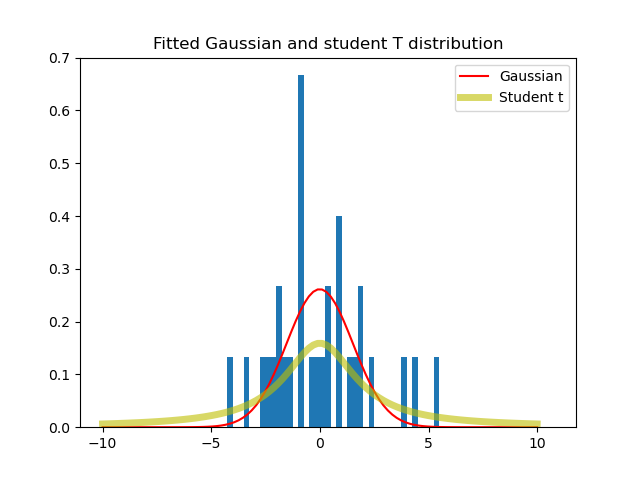
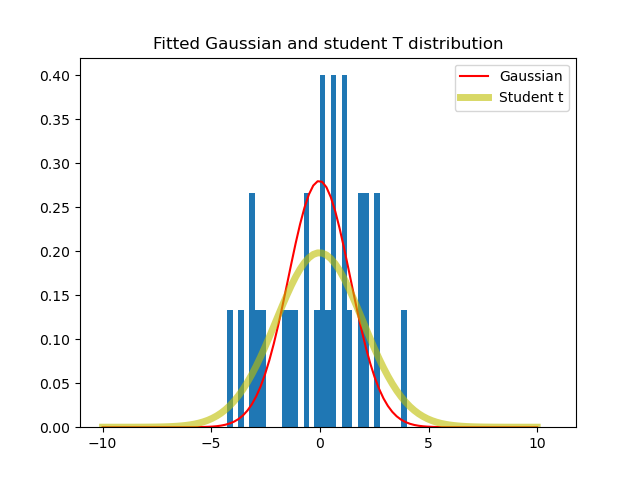
finished

diff --git a/hw1/practice_problem_3.py b/hw1/practice_problem_3.py
@@ -29,7 +29,7 @@ def plot_distributions_and_data(data, noise):
     params_init = np.array([mu_init, sigma_init])
 
     # Minimize negative log-likelihood using L-BFGS
-    result = minimize(Gaussian_neg_log_likelihood, params_init, args=(data,), method='L-BFGS-B')
+    result = minimize(Gaussian_neg_log_likelihood, params_init, args=(data,), method='BFGS')
 
     mu_est, sigma_est = result.x
 
@@ -45,7 +45,7 @@ def plot_distributions_and_data(data, noise):
     params0 = [1, 0, 2]
     bounds = [(0.01, 1000), (0, 1), (0, 3)]
 
-    result = minimize(Student_t_neg_log_likelihood, params0, args=(data,), bounds=bounds, method='L-BFGS-B')
+    result = minimize(Student_t_neg_log_likelihood, params0, args=(data,), bounds=bounds, method='BFGS')
 
     df_est, mu_est, sigma_est = result.x
 
